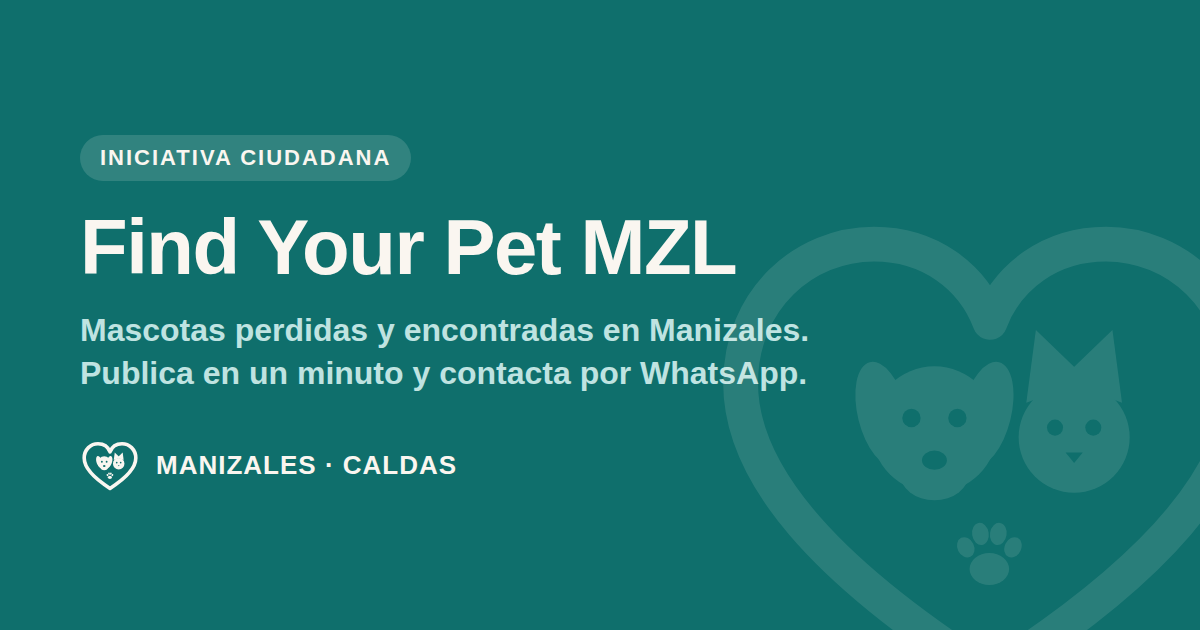
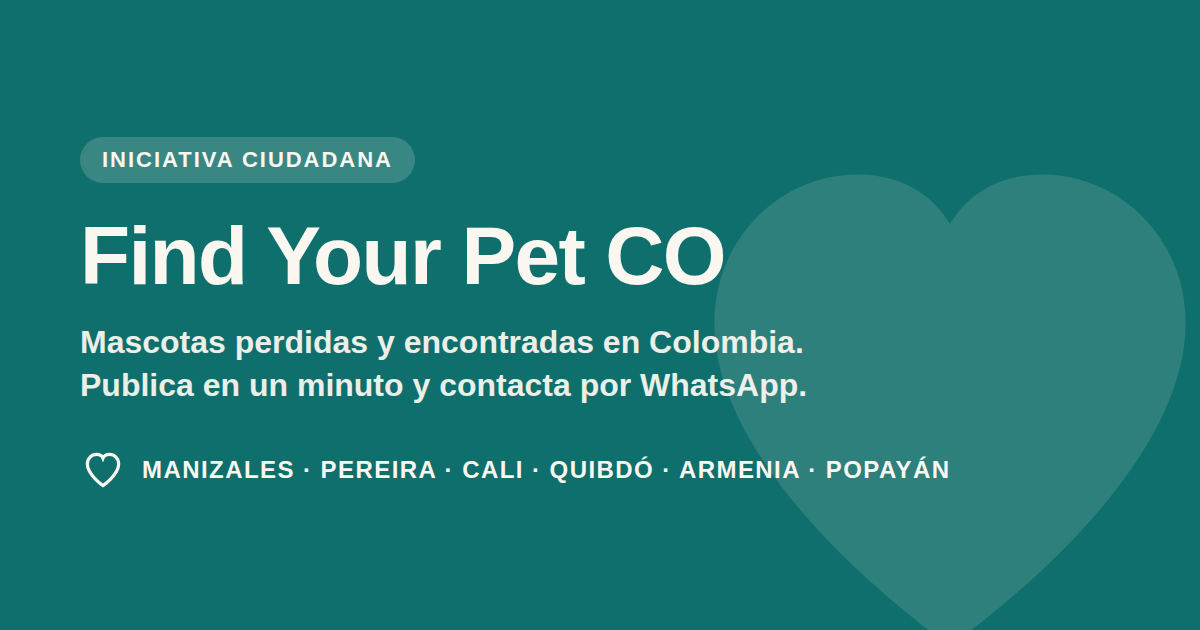
Corregir imagen de compartir, contadores por ciudad y sitemap

Changed region(s): [[0.0617, 0.2714, 1.0, 1.0], [0.0617, 0.2111, 0.37, 0.3016]]

diff --git a/src/app/sitemap.ts b/src/app/sitemap.ts
@@ -1,0 +1,24 @@
+import type { MetadataRoute } from "next";
+import { CIUDADES } from "@/lib/tipos";
+
+/** Dominio público. Se puede cambiar sin tocar código con NEXT_PUBLIC_SITIO. */
+export const SITIO =
+  process.env.NEXT_PUBLIC_SITIO?.replace(/\/$/, "") ||
+  "https://find-your-pet-mzl.vercel.app";
+
+/**
+ * Le dice a Google que existe una página por ciudad. Sin esto tardaría
+ * semanas en descubrir /pereira, /cali y las demás.
+ */
+export default function sitemap(): MetadataRoute.Sitemap {
+  return [
+    { url: `${SITIO}/`, changeFrequency: "hourly", priority: 1 },
+    { url: `${SITIO}/reportar`, changeFrequency: "monthly", priority: 0.8 },
+    { url: `${SITIO}/ayudar`, changeFrequency: "weekly", priority: 0.6 },
+    ...CIUDADES.map((c) => ({
+      url: `${SITIO}/${c.slug}`,
+      changeFrequency: "hourly" as const,
+      priority: 0.9,
+    })),
+  ];
+}

diff --git a/src/components/Portada.tsx b/src/components/Portada.tsx
@@ -43,7 +43,9 @@ export default async function Portada({
         q: uno(p.q),
         estado,
       }),
-      contarPorEstado(ciudad ? ciudad.nombre : null),
+      // Los contadores tienen que seguir el mismo filtro que la lista: si no,
+      // en /?ciudad=Villamaría se veían 15 tarjetas con los números del país.
+      contarPorEstado(ciudadFiltro),
     ]);
   } catch (error) {
     errorCarga = error instanceof Error ? error.message : "Error desconocido";
@@ -52,7 +54,7 @@ export default async function Portada({
   const totalReportes = totales.perdidas + totales.encontradas + totales.reunidas;
   const zona = ciudad
     ? `${ciudad.nombre}, ${ciudad.departamento}`
-    : "Colombia";
+    : (ciudadFiltro ?? "Colombia");
 
   return (
     <>

diff --git a/src/app/reportar/page.tsx b/src/app/reportar/page.tsx
@@ -6,7 +6,7 @@ import FormularioReporte from "@/components/FormularioReporte";
 export const metadata: Metadata = {
   title: "Publicar reporte — Find Your Pet CO",
   description:
-    "Reporta una mascota perdida o encontrada en Manizales o Villamaría. Toma menos de un minuto.",
+    "Reporta una mascota perdida o encontrada en Colombia. Toma menos de un minuto, gratis y sin registro.",
 };
 
 export default function PaginaReportar() {

diff --git a/src/app/robots.ts b/src/app/robots.ts
@@ -1,0 +1,9 @@
+import type { MetadataRoute } from "next";
+import { SITIO } from "./sitemap";
+
+export default function robots(): MetadataRoute.Robots {
+  return {
+    rules: [{ userAgent: "*", allow: "/", disallow: "/api/" }],
+    sitemap: `${SITIO}/sitemap.xml`,
+  };
+}
